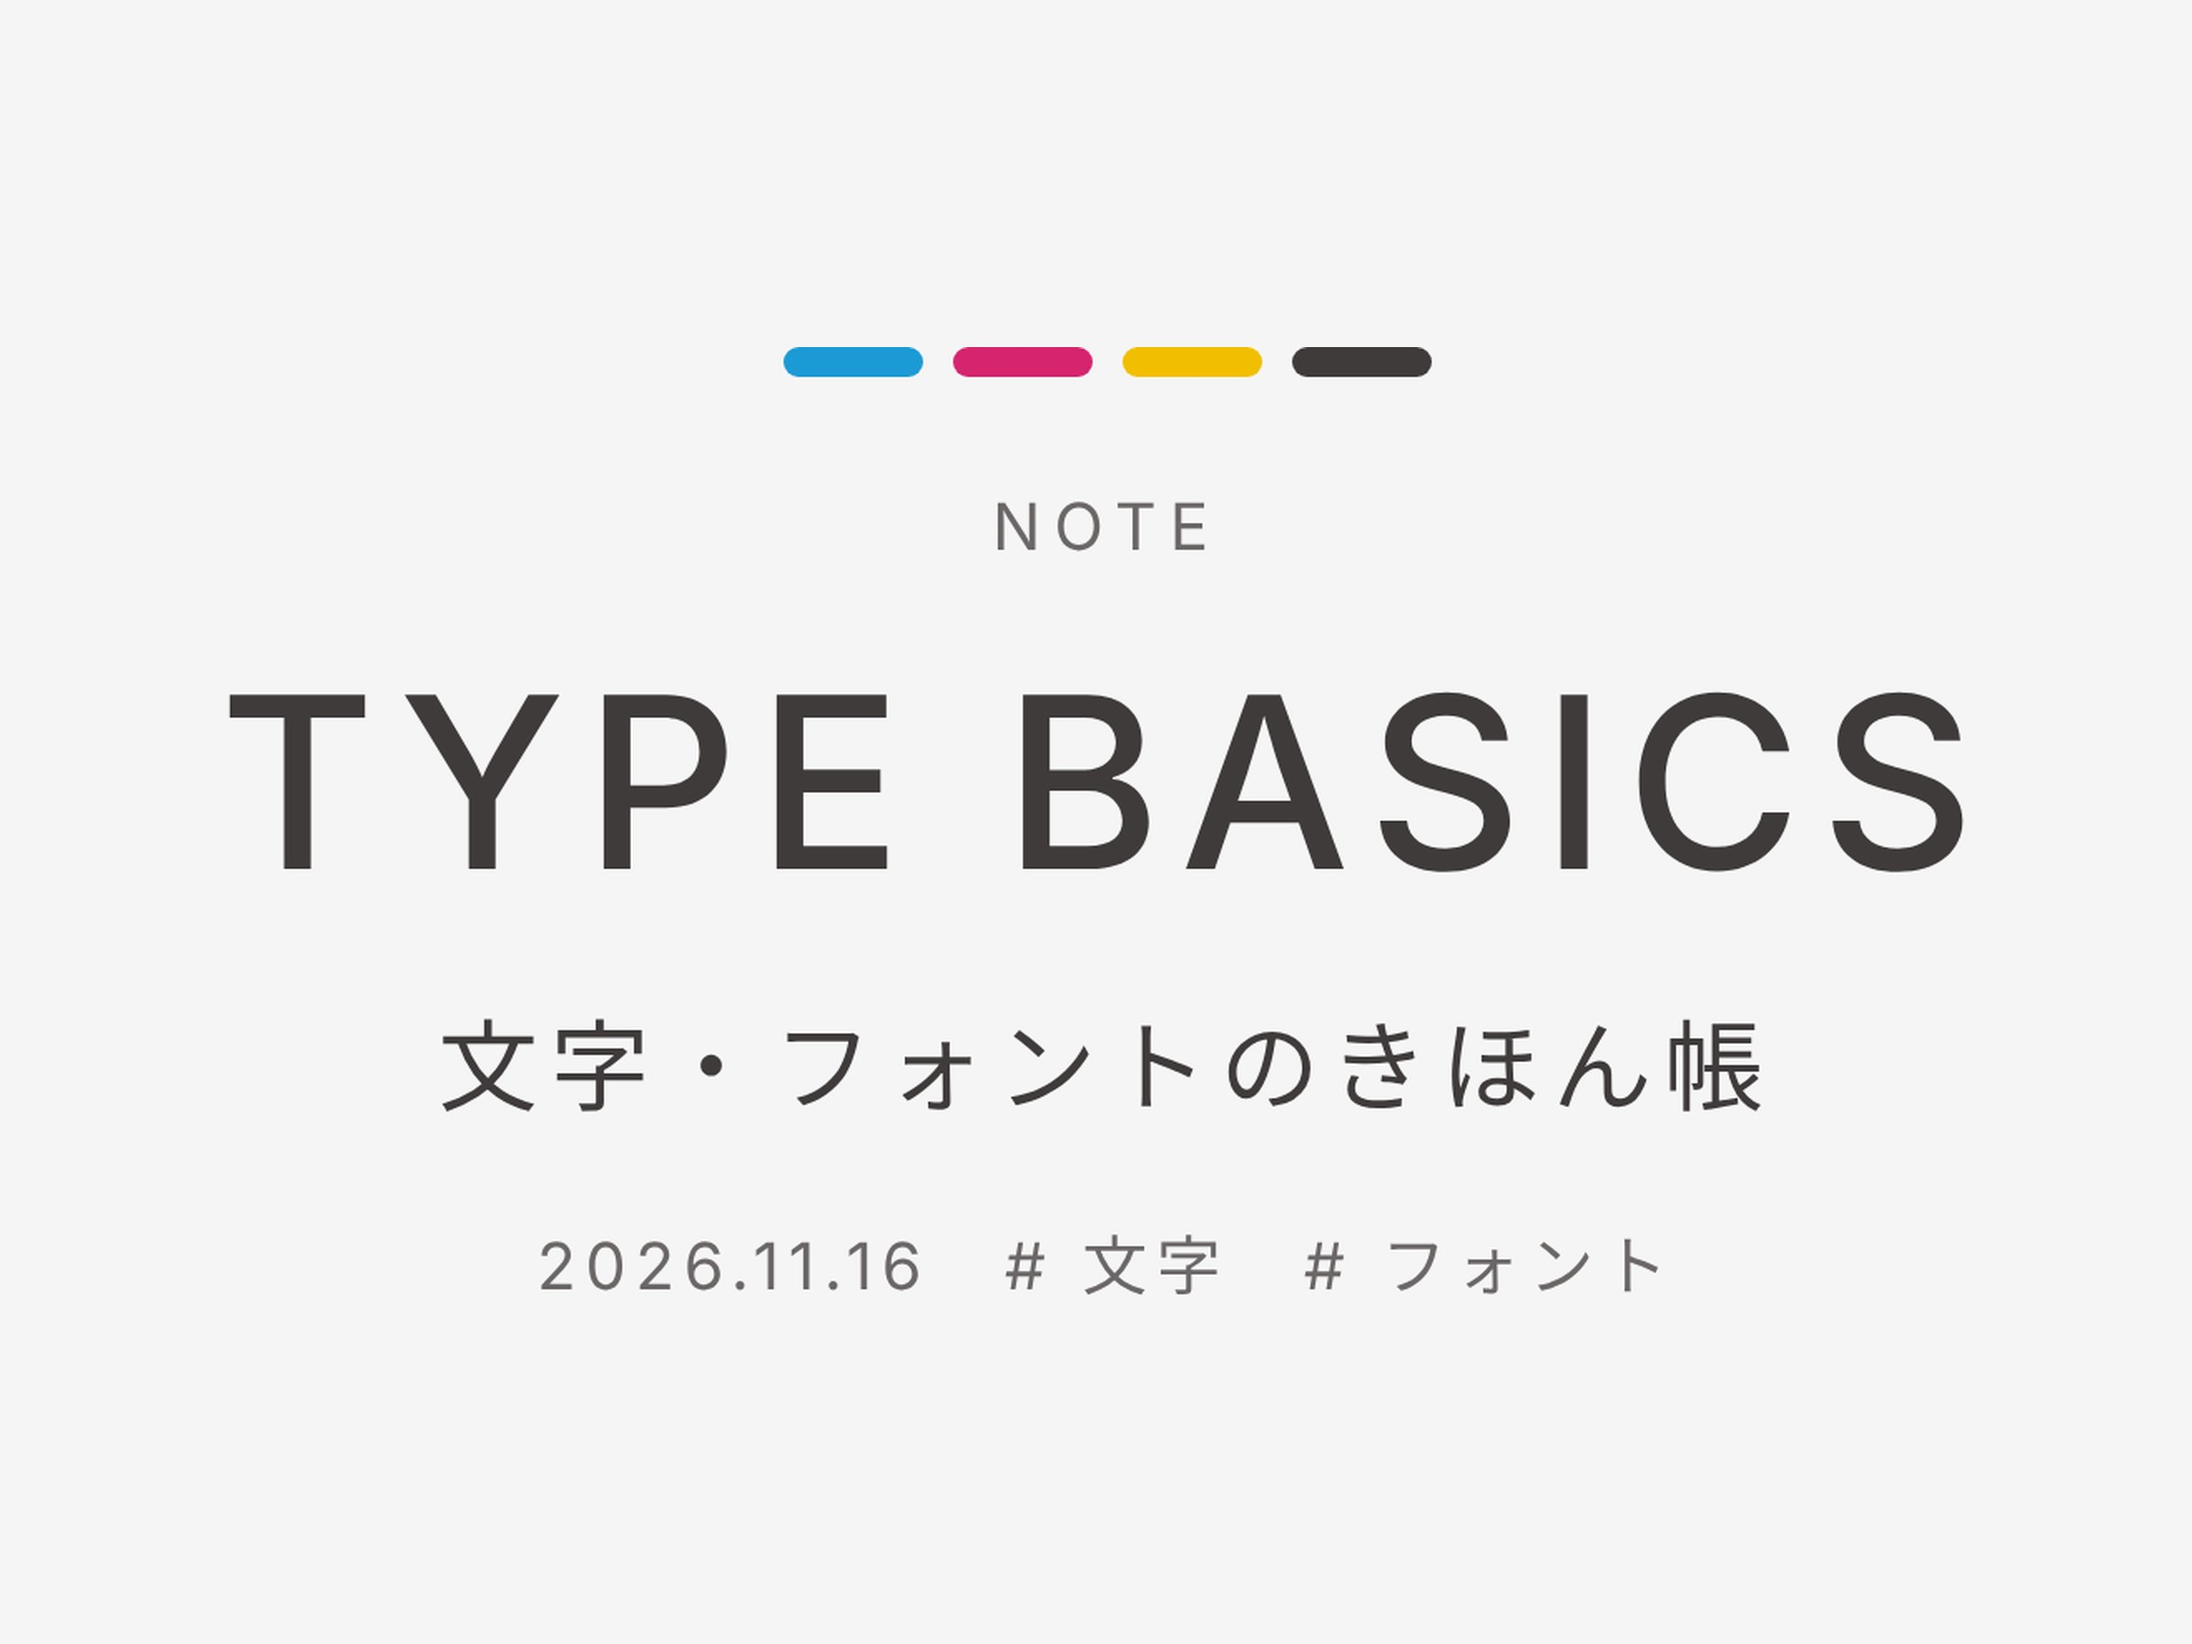
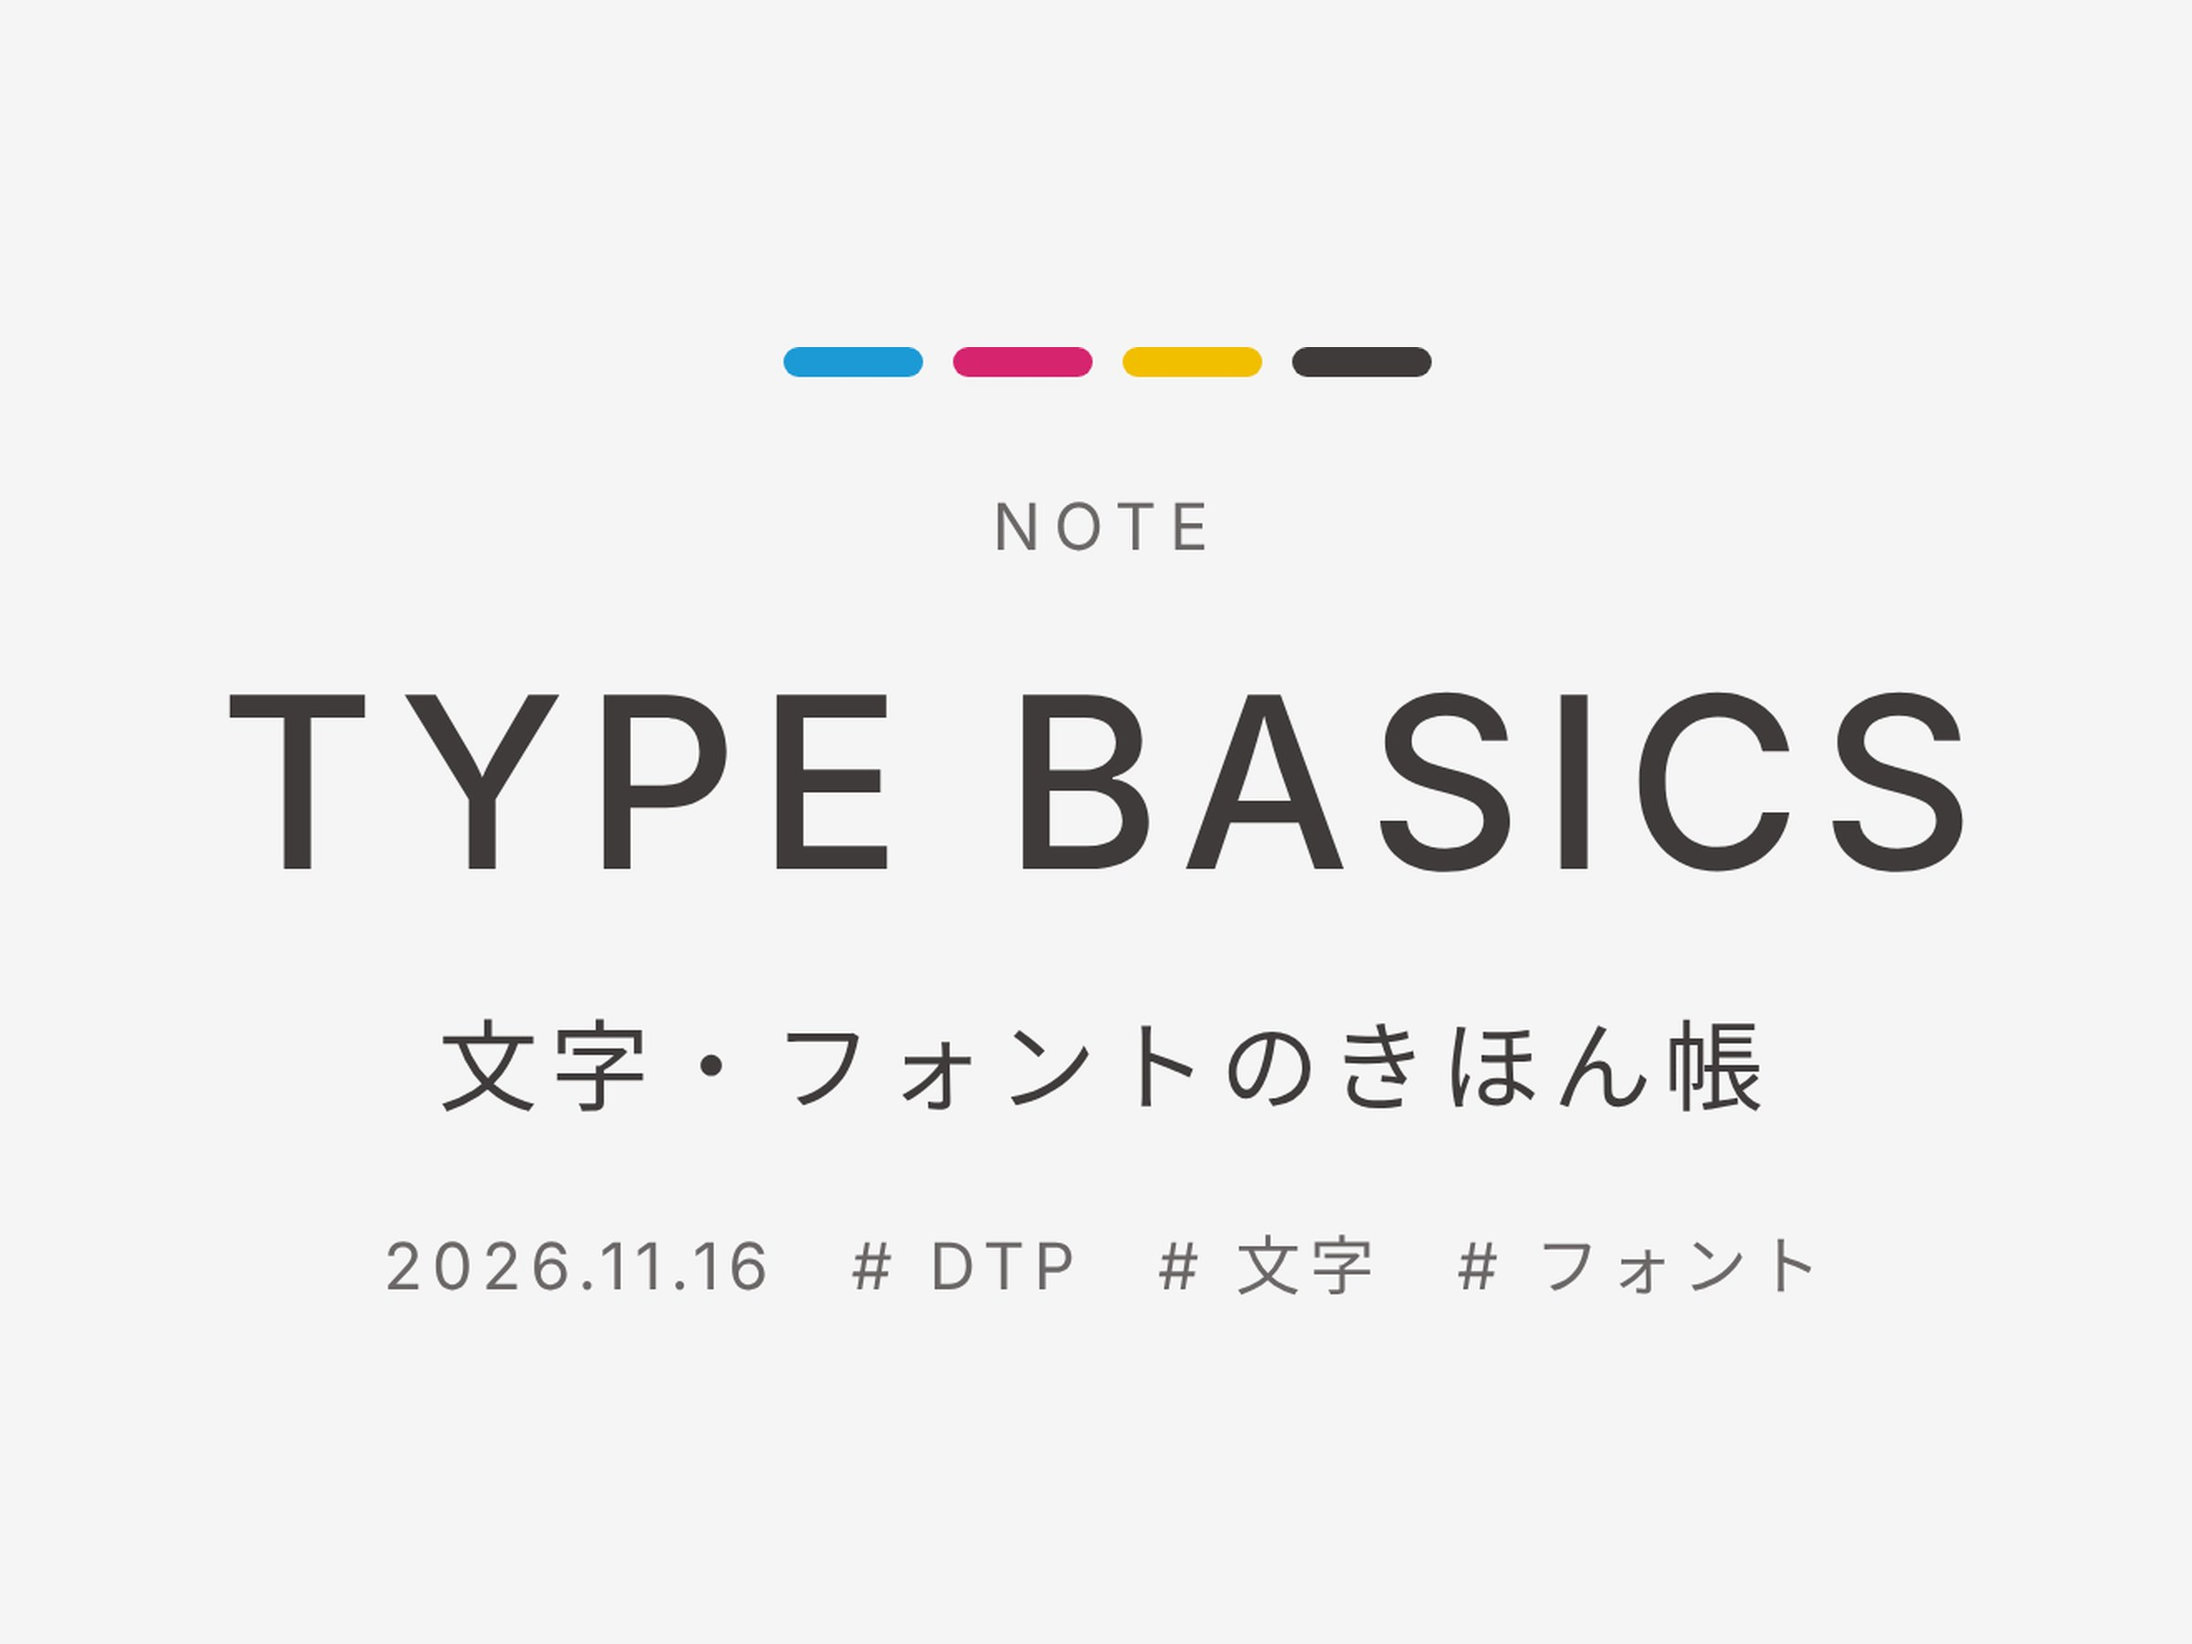
文字・フォントのきほん帳をDTP向けの内容に更新

Changed region(s): [[0.1875, 0.7467, 0.8125, 0.8089]]

diff --git a/note/type-basics.html b/note/type-basics.html
@@ -4,10 +4,10 @@
 <meta charset="utf-8">
 <meta name="viewport" content="width=device-width, initial-scale=1">
 <title>文字・フォントのきほん帳 | HIDAKA SHURI</title>
-<meta name="description" content="デザイナーのための文字とフォントの基本13のこと。書体の選び方、サイズと単位、字間・行間、禁則と約物、和欧混植、縦組み、入稿まで。Illustratorでの操作も一緒にまとめました。">
+<meta name="description" content="紙のデザイン（DTP）向け、文字とフォントの基本13のこと。書体の選び方、サイズと単位、字間・行間、禁則と約物、和欧混植、縦組み、入稿まで。Illustratorでの操作も一緒にまとめました。">
 <link rel="canonical" href="https://shuri2525.github.io/shuri-portfolio/note/type-basics.html">
 <meta property="og:title" content="TYPE BASICS | HIDAKA SHURI">
-<meta property="og:description" content="デザイナーのための文字とフォントの基本13のこと">
+<meta property="og:description" content="紙のデザイン（DTP）向け、文字とフォントの基本13のこと">
 <meta property="og:type" content="article">
 <meta property="og:url" content="https://shuri2525.github.io/shuri-portfolio/note/type-basics.html">
 <meta property="og:image" content="https://shuri2525.github.io/shuri-portfolio/assets/works/note/05/hero.jpg">
@@ -172,6 +172,7 @@ i.d-c,i.d-m,i.d-y,i.d-k{display:inline-block;width:9px;height:9px;border-radius:
 .back-btn:hover{opacity:.8}
 .back-btn .en{font-family:var(--font-en);font-size:14px;letter-spacing:.14em}
 .back-btn .ja{font-size:11px;letter-spacing:.1em;opacity:.8}
+.lede .scope{display:block;width:max-content;margin:0 auto 14px;font-size:13px;font-weight:500;letter-spacing:.1em;border:1px solid var(--color-dark);border-radius:999px;padding:4px 16px}
 .mn{font-family:"Noto Serif JP","Noto Serif CJK JP","Hiragino Mincho ProN","Yu Mincho",serif}.gt{font-family:"Noto Sans JP",sans-serif}.mr{font-family:"Zen Maru Gothic","Hiragino Maru Gothic ProN","Noto Sans JP",sans-serif}.es{font-family:"Noto Serif JP",Georgia,"Times New Roman",serif}.ea{font-family:"Avenir Next","Avenir","Helvetica Neue",Arial,sans-serif}
 .cd{font-family:ui-monospace,"SF Mono",Menlo,Consolas,monospace;font-weight:500}
 .card code{font-family:ui-monospace,"SF Mono",Menlo,Consolas,monospace;font-size:.88em;background:#f1efee;padding:1px 5px;border-radius:3px;word-break:break-all}
@@ -245,8 +246,8 @@ i.d-c,i.d-m,i.d-y,i.d-k{display:inline-block;width:9px;height:9px;border-radius:
     <p class="page-label">NOTE</p>
     <h1 class="page-title">TYPE BASICS</h1>
     <p class="page-sub">文字・フォントのきほん帳</p>
-    <p class="page-date">2026.11.16　# 文字　# フォント</p>
-    <p class="lede">書体の選び方から、サイズ、字間、行間、禁則、和欧混植、縦組み、入稿まで。紙のデザインで毎日のように迷う「文字」のことを、13のテーマに分けて図解しました。各カードの「Illustrator」の欄に、Illustrator 30（Creative Cloud 2026年版）での操作をまとめています。</p>
+    <p class="page-date">2026.11.16　# DTP　# 文字　# フォント</p>
+    <p class="lede"><b class="scope">紙のデザイン（DTP）向け</b>書体の選び方から、サイズ、字間、行間、禁則、和欧混植、縦組み、入稿まで。紙のデザインで毎日のように迷う「文字」のことを、13のテーマに分けて図解しました。サイズや行間などの数値の目安は印刷物を前提にしていて、Webの文字（px・CSS・Webフォント）は含みません。各カードの「Illustrator」の欄に、Illustrator 30（Creative Cloud 2026年版）での操作をまとめています。</p>
   </div>
 
   <div class="band">
